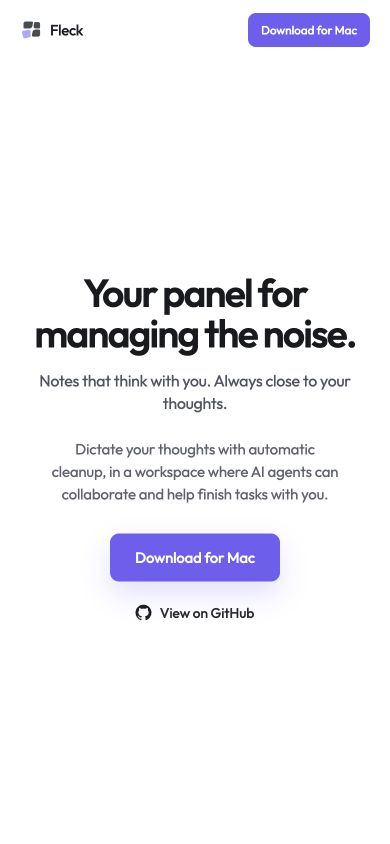
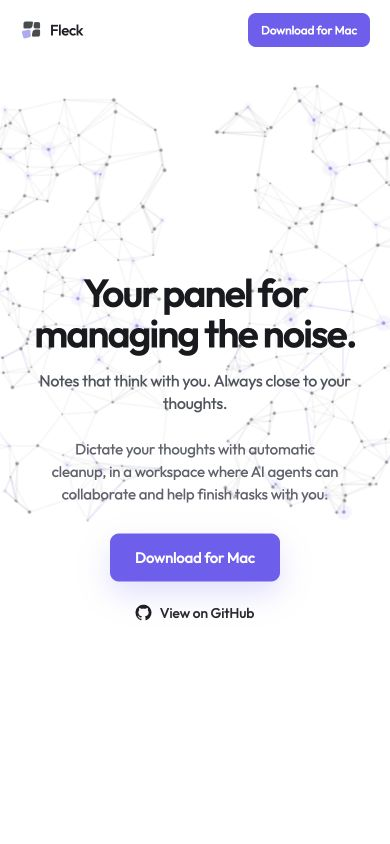
fix: restore Sites hero canvas

diff --git a/website/src/BrainHologram.jsx b/website/src/BrainHologram.jsx
@@ -1,0 +1,134 @@
+import { useEffect, useRef } from "react";
+import { createBrainModel } from "./brainModel";
+
+const GRAPHITE = [23, 25, 31];
+const VIOLET = [116, 87, 246];
+
+function rgba([red, green, blue], alpha) {
+  return `rgba(${red}, ${green}, ${blue}, ${alpha})`;
+}
+
+export default function BrainHologram() {
+  const canvasRef = useRef(null);
+
+  useEffect(() => {
+    const canvas = canvasRef.current;
+    const context = canvas.getContext("2d");
+    const reducedMotion = window.matchMedia("(prefers-reduced-motion: reduce)");
+    const pointer = { active: false, x: 0, y: 0 };
+    let model;
+    let frame;
+    let width = 0;
+    let height = 0;
+
+    const resize = () => {
+      const bounds = canvas.getBoundingClientRect();
+      width = Math.max(1, bounds.width);
+      height = Math.max(1, bounds.height);
+      const ratio = Math.min(window.devicePixelRatio || 1, 1.5);
+      canvas.width = Math.round(width * ratio);
+      canvas.height = Math.round(height * ratio);
+      context.setTransform(ratio, 0, 0, ratio, 0, 0);
+      const count = window.innerWidth < 600 ? 340 : width < 1100 ? 440 : 560;
+      model = createBrainModel(width, height, count);
+    };
+
+    const positionNodes = (time) => {
+      const radius = Math.min(width, height) * 0.14;
+      model.nodes.forEach((node, index) => {
+        const drift = reducedMotion.matches ? 0 : Math.sin(time * 0.00032 + node.phase) * 1.35;
+        let x = node.x + drift * Math.cos(node.phase);
+        let y = node.y + drift * Math.sin(node.phase);
+
+        if (!reducedMotion.matches && pointer.active) {
+          const dx = x - pointer.x;
+          const dy = y - pointer.y;
+          const distance = Math.hypot(dx, dy) || 1;
+          if (distance < radius) {
+            const force = ((radius - distance) / radius) ** 2 * 20;
+            x += (dx / distance) * force;
+            y += (dy / distance) * force;
+          }
+        }
+
+        model.positions[index * 2] = x;
+        model.positions[index * 2 + 1] = y;
+      });
+    };
+
+    const draw = (time = 0) => {
+      if (!model) resize();
+      context.clearRect(0, 0, width, height);
+      positionNodes(time);
+
+      model.edges.forEach(([from, to]) => {
+        const signal = model.signals.has(`${from}:${to}`);
+        context.beginPath();
+        context.moveTo(model.positions[from * 2], model.positions[from * 2 + 1]);
+        context.lineTo(model.positions[to * 2], model.positions[to * 2 + 1]);
+        context.strokeStyle = signal ? rgba(VIOLET, 0.28) : rgba(GRAPHITE, 0.13);
+        context.lineWidth = signal ? 0.95 : 0.58;
+        context.stroke();
+      });
+
+      model.nodes.forEach((node, index) => {
+        const x = model.positions[index * 2];
+        const y = model.positions[index * 2 + 1];
+        if (node.violet) {
+          context.beginPath();
+          context.arc(x, y, node.size * 4.4, 0, Math.PI * 2);
+          context.fillStyle = rgba(VIOLET, 0.07);
+          context.fill();
+        }
+        context.beginPath();
+        context.arc(x, y, node.size, 0, Math.PI * 2);
+        context.fillStyle = node.violet ? rgba(VIOLET, 0.72) : rgba(GRAPHITE, 0.5);
+        context.fill();
+      });
+
+      if (!reducedMotion.matches) frame = window.requestAnimationFrame(draw);
+    };
+
+    const updatePointer = (event) => {
+      const bounds = canvas.getBoundingClientRect();
+      pointer.x = event.clientX - bounds.left;
+      pointer.y = event.clientY - bounds.top;
+      pointer.active =
+        event.pointerType !== "touch" &&
+        pointer.x >= 0 &&
+        pointer.x <= bounds.width &&
+        pointer.y >= 0 &&
+        pointer.y <= bounds.height;
+    };
+
+    const restart = () => {
+      window.cancelAnimationFrame(frame);
+      draw(0);
+    };
+    const observer = new ResizeObserver(() => {
+      resize();
+      if (reducedMotion.matches) draw(0);
+    });
+
+    observer.observe(canvas);
+    window.addEventListener("pointermove", updatePointer, { passive: true });
+    reducedMotion.addEventListener("change", restart);
+    resize();
+    draw(0);
+
+    return () => {
+      observer.disconnect();
+      window.cancelAnimationFrame(frame);
+      window.removeEventListener("pointermove", updatePointer);
+      reducedMotion.removeEventListener("change", restart);
+    };
+  }, []);
+
+  return (
+    <div className="brain-hologram" aria-hidden="true">
+      <div className="brain-hologram-visual">
+        <canvas ref={canvasRef} className="brain-network" />
+      </div>
+    </div>
+  );
+}

diff --git a/website/src/brainModel.js b/website/src/brainModel.js
@@ -1,0 +1,94 @@
+function seededRandom(seed) {
+  return () => {
+    seed |= 0;
+    seed = (seed + 0x6d2b79f5) | 0;
+    let value = Math.imul(seed ^ (seed >>> 15), 1 | seed);
+    value = (value + Math.imul(value ^ (value >>> 7), 61 | value)) ^ value;
+    return ((value ^ (value >>> 14)) >>> 0) / 4294967296;
+  };
+}
+
+function addHemisphere(nodes, side, target, width, height, random) {
+  const centerX = width * (side === -1 ? 0.35 : 0.65);
+  const centerY = height * 0.49;
+  const radiusX = width * 0.23;
+  const radiusY = height * 0.45;
+
+  for (let attempts = 0; nodes.length < target && attempts < target * 80; attempts += 1) {
+    const x = random() * 2 - 1;
+    const y = random() * 2 - 1;
+    const angle = Math.atan2(y, x);
+    const distance = Math.hypot(x, y);
+    const lobedEdge =
+      0.94 +
+      Math.cos(angle * 3 - side * 0.45) * 0.04 +
+      Math.cos(angle * 5 + side * 0.3) * 0.025;
+    const inward = side === -1 ? x : -x;
+    const fissureLimit = 0.47 + Math.min(1, Math.abs(y) / 0.78) * 0.08;
+
+    if (distance > lobedEdge || inward > fissureLimit) continue;
+
+    nodes.push({
+      x: centerX + x * radiusX,
+      y: centerY + y * radiusY,
+      phase: random() * Math.PI * 2,
+      size: 0.55 + random() * 1.25,
+      violet: random() > 0.9,
+      side,
+    });
+  }
+}
+
+export function createBrainModel(width, height, requestedCount) {
+  const count = Math.max(40, requestedCount);
+  const random = seededRandom(Math.round(width * 13 + height * 17 + count * 19));
+  const nodes = [];
+  const half = Math.floor(count / 2);
+
+  addHemisphere(nodes, -1, half, width, height, random);
+  addHemisphere(nodes, 1, count, width, height, random);
+
+  const edges = [];
+  const seenEdges = new Set();
+  const threshold = Math.min(width, height) * 0.12;
+  const addEdge = (fromIndex, toIndex) => {
+    const from = Math.min(fromIndex, toIndex);
+    const to = Math.max(fromIndex, toIndex);
+    const key = `${from}:${to}`;
+
+    if (!seenEdges.has(key)) {
+      seenEdges.add(key);
+      edges.push([from, to]);
+    }
+  };
+
+  nodes.forEach((node, index) => {
+    const nearest = [];
+
+    for (let candidate = 0; candidate < nodes.length; candidate += 1) {
+      const other = nodes[candidate];
+      if (candidate === index || node.side !== other.side) continue;
+      const distance = Math.hypot(node.x - other.x, node.y - other.y);
+      if (distance < threshold) nearest.push({ index: candidate, distance });
+    }
+
+    nearest
+      .sort((a, b) => a.distance - b.distance)
+      .slice(0, 5)
+      .forEach(({ index: otherIndex }) => addEdge(index, otherIndex));
+  });
+
+  const signals = new Set(
+    edges
+      .filter(([from, to]) => (from * 7 + to * 11) % 23 === 0)
+      .slice(0, 36)
+      .map(([from, to]) => `${from}:${to}`),
+  );
+
+  return {
+    nodes,
+    edges,
+    signals,
+    positions: new Float32Array(nodes.length * 2),
+  };
+}

diff --git a/website/src/styles.css b/website/src/styles.css
@@ -125,6 +125,44 @@ a {
   padding: 96px 24px 34px;
 }
 
+.brain-hologram {
+  position: absolute;
+  z-index: 0;
+  top: clamp(8px, 1.4vh, 18px);
+  left: 50%;
+  width: min(112vw, 1536px);
+  aspect-ratio: 3 / 2;
+  transform: translateX(-50%);
+  pointer-events: none;
+}
+
+.brain-hologram-visual {
+  position: relative;
+  width: 100%;
+  height: 100%;
+  animation: brain-breathe 9s ease-in-out infinite;
+}
+
+.brain-network {
+  position: absolute;
+  inset: 0;
+  display: block;
+  width: 100%;
+  height: 100%;
+  opacity: 0.86;
+}
+
+@keyframes brain-breathe {
+  0%,
+  100% {
+    transform: scale(0.995);
+  }
+
+  50% {
+    transform: scale(1.012);
+  }
+}
+
 .hero-content {
   position: relative;
   z-index: 2;
@@ -259,6 +297,11 @@ a {
     padding: 82px 20px 26px;
   }
 
+  .brain-hologram {
+    top: 58px;
+    width: max(760px, 158vw);
+  }
+
   .hero-content {
     width: min(100%, 560px);
     padding-top: 0;
@@ -322,6 +365,10 @@ a {
 }
 
 @media (prefers-reduced-motion: reduce) {
+  .brain-hologram-visual {
+    animation: none;
+  }
+
   .brand,
   .download-link,
   .github-link {

diff --git a/website/src/brainModel.test.js b/website/src/brainModel.test.js
@@ -1,0 +1,23 @@
+import assert from "node:assert/strict";
+import test from "node:test";
+import { createBrainModel } from "./brainModel.js";
+
+test("creates a dense deterministic two-sided brain network", () => {
+  const first = createBrainModel(1440, 960, 560);
+  const second = createBrainModel(1440, 960, 560);
+
+  assert.deepEqual(first.nodes, second.nodes);
+  assert.equal(first.nodes.length, 560);
+  assert.ok(first.edges.length > first.nodes.length * 2);
+
+  const left = first.nodes.filter(({ side }) => side === -1);
+  const right = first.nodes.filter(({ side }) => side === 1);
+  assert.equal(left.length, right.length);
+  assert.equal(first.nodes.filter(({ x }) => Math.abs(x - 720) < 24).length, 0);
+
+  first.edges.forEach(([from, to]) => {
+    assert.ok(from >= 0 && from < first.nodes.length);
+    assert.ok(to > from && to < first.nodes.length);
+    assert.equal(first.nodes[from].side, first.nodes[to].side);
+  });
+});

diff --git a/website/src/App.jsx b/website/src/App.jsx
@@ -1,3 +1,4 @@
+import BrainHologram from "./BrainHologram";
 import Navigation from "./Navigation";
 
 const APP_STORE_URL = import.meta.env.VITE_APP_STORE_URL?.trim();
@@ -23,6 +24,8 @@ export default function App() {
     <main className="page">
       <Navigation downloadProps={downloadProps} />
       <section className="hero" aria-labelledby="hero-title">
+        <BrainHologram />
+
         <div className="hero-content">
           <h1 id="hero-title">Your panel for managing the noise.</h1>
           <p className="hero-motto">

diff --git a/docs/design/fleck-website-visual-direction.md b/docs/design/fleck-website-visual-direction.md
@@ -8,8 +8,9 @@ The approved full-page reference is
 ## Locked direction
 
 - Warm-white editorial canvas with compact T3-like page insets and navigation.
-- The hero is intentionally free of background illustration, hologram, canvas,
-  nodes, or connections; typography and whitespace carry the opening screen.
+- The hero uses the lightweight interactive Sites canvas: graphite and violet
+  dots with short connections across two hemispheres. No generated brain image
+  is rendered behind it.
 - Violet is the sole accent; graphite typography stays dominant and readable.
 - The page tells one continuous story: fleeting idea, immediate capture, cleanup,
   deliberate Agent Access, agent collaboration, and finished work.

diff --git a/website/design-qa.md b/website/design-qa.md
@@ -7,8 +7,10 @@
 
 ## Findings
 
-- The hero contains no brain image, hologram, canvas, nodes, connections, or
-  decorative animation.
+- The hero contains the interactive dots-and-connections canvas used by the
+  Sites version, with no generated brain image behind it.
+- Pointer movement gently displaces nearby nodes and edges; touch interaction
+  stays disabled and reduced motion renders a static network.
 - Existing navigation, hero copy, and download/GitHub actions are unchanged.
 - The centered content remains readable at desktop and mobile breakpoints.
 - Mobile has no horizontal overflow.
